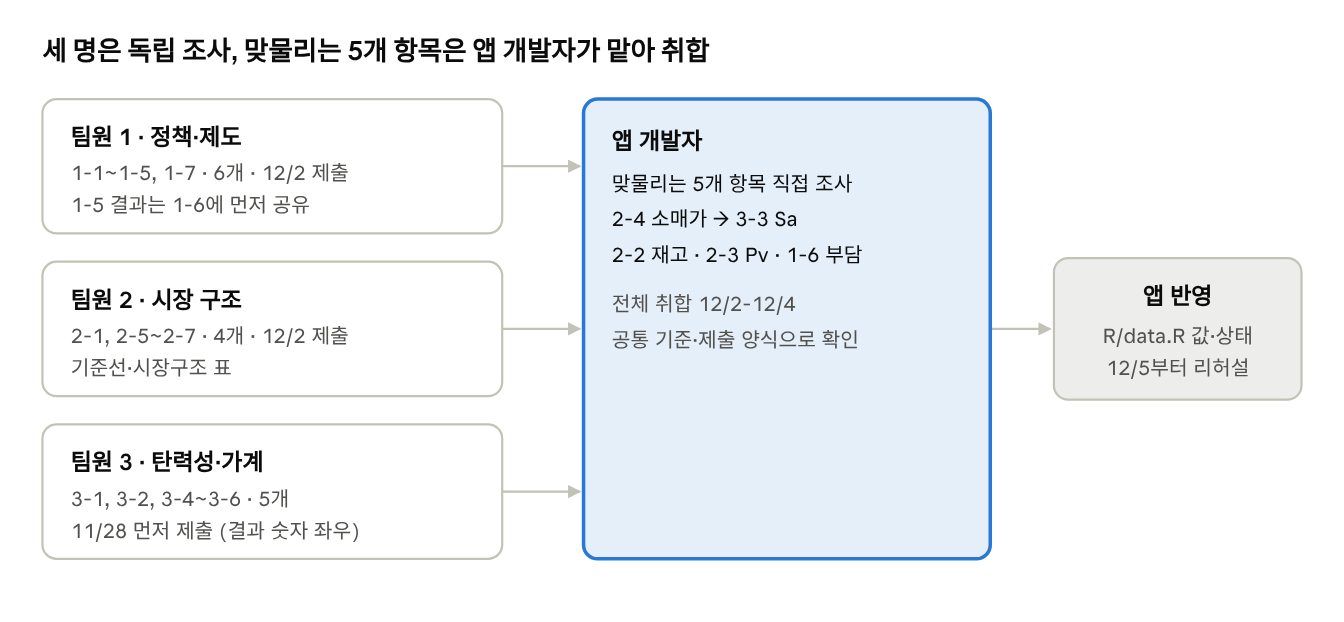
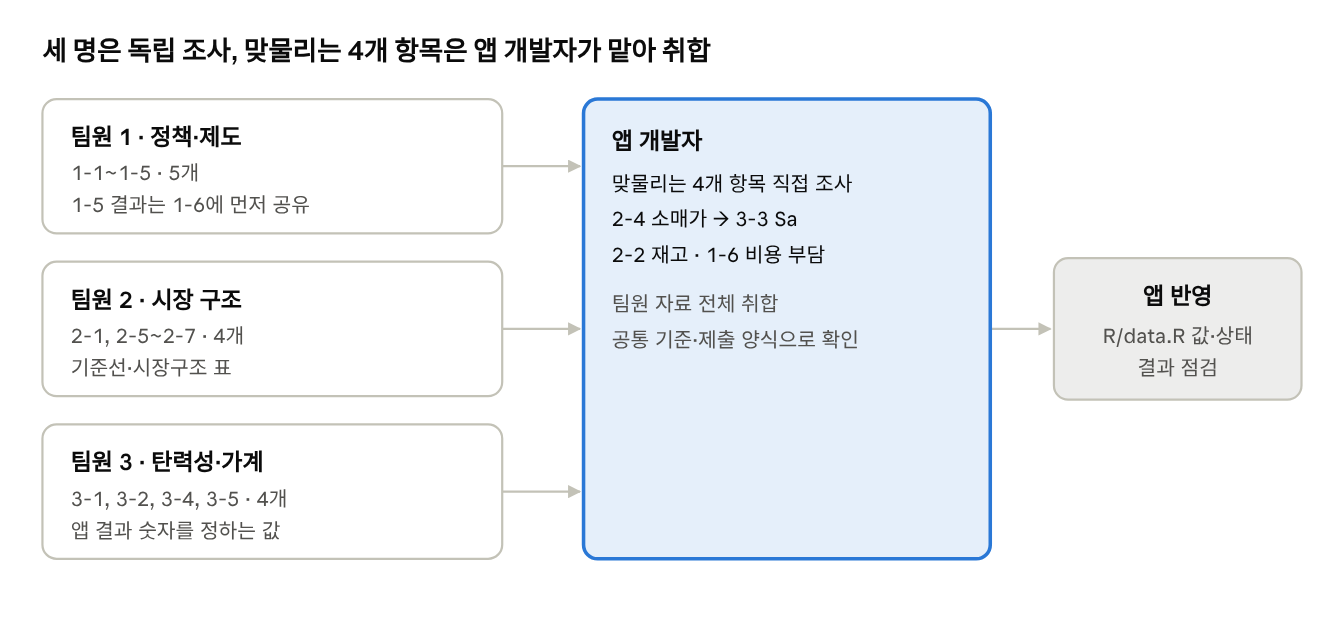
자료조사 문서: 과제 필수 자료만 남기고 일정 제거
- 과제 요구가 아닌 항목 제외: 1-7 우유 생산비, 2-3 처분가치, 3-6 월 소비지출
- 각 항목에 과제 근거 열 추가, 2-5에 판매자 쪽 구조 포함, 3-4는 조건부 표시
- 일정·마감일, 바로잡은 내용, 앱 반영 계획 섹션 제거
- 역할 분담 흐름도 갱신

Claude-Session: https://claude.ai/code/session_015N3KKKpZEbBGRrrhsN2csv

diff --git a/docs/자료조사-기준과-역할분담.md b/docs/자료조사-기준과-역할분담.md
@@ -1,24 +1,15 @@
 # 원유가격 시뮬레이터 자료조사 기준과 역할 분담
 
-작성일 2026-11-23 · 원본(편집·댓글용): [Claude 문서](https://claude.ai/artifact/Bh9cvCCWQGwG6CfZzqTc1w)
+원본(편집·댓글용): [Claude 문서](https://claude.ai/artifact/Bh9cvCCWQGwG6CfZzqTc1w)
 
-> 이 파일은 2026-11-23 시점의 사본입니다. 원본 문서를 고치면 이 파일은 자동으로 바뀌지 않습니다.
+> 이 파일은 원본 문서의 사본입니다. 원본 문서를 고치면 이 파일은 자동으로 바뀌지 않습니다.
 
 ## 개요
 
-앱의 계산 모형과 화면은 완성됐고, 남은 일은 임시 값으로 채워 둔 자료 20개 항목을 실제 출처로 바꾸는 것입니다. 팀원 3명이 서로 독립적인 15개 항목을 나눠 조사하고, 서로 값을 주고받아야 하는 5개 항목은 앱 개발자가 이 문서의 기준대로 직접 조사한 뒤 전체를 취합해 앱에 반영합니다.
+앱의 계산 모형과 화면은 완성됐고, 남은 일은 과제가 요구하는 자료 17개 항목을 실제 출처로 채우는 것입니다. 팀원 3명이 서로 독립적인 13개 항목을 나눠 조사하고, 서로 값을 주고받아야 하는 4개 항목은 앱 개발자가 직접 조사한 뒤 전체를 취합해 앱에 반영합니다. 모든 항목은 과제 안내문 3장(앱에 반드시 포함할 구성 요소)이 요구하는 것만 남겼고, 표의 "과제 근거" 열에 해당 문장을 적었습니다.
 
 - 앱: [원유가격 정책 시뮬레이터](https://sappheiros009.github.io/raw-milk-price-simulator/)
 - 각자 맡은 항목은 담당별 표에, 지켜야 할 기준과 제출 양식은 "공통 기준"에 있습니다.
-
-**일정**
-
-1. 팀원 3 탄력성·가계 항목 제출: 2026-11-28 (앱의 결과 숫자가 이 값으로 바뀌므로 먼저)
-2. 나머지 항목 제출: 2026-12-02
-3. 앱 개발자 취합·앱 반영: 12/2-12/4
-4. 리허설과 시연 녹화: 12/5-12/7
-5. 발표: 2026-12-08, 2026-12-10
-6. 정책 브리프 제출: 2026-12-18
 
 ## 역할 분담 한눈에
 
@@ -46,41 +37,39 @@
 | --- | --- | --- | --- | --- | --- | --- | --- | --- |
 | 예: 3-5 | (값) | % | 2013 | 소매 | 통계청 가계동향조사 | (주소) | (날짜) | 소득 1분위 우유 지출 비중 |
 
-## 팀원 1: 정책·제도 (6개, 12/2 제출)
+## 팀원 1: 정책·제도 (5개)
 
 정책·시장 탭의 정책 개요와 추이 그래프에 들어갑니다. 1-5의 쿼터 초과 원유 가격은 앱 개발자의 1-6 판단에도 쓰이므로 찾는 대로 먼저 공유합니다.
 
-| 번호 | 조사 항목 | 앱 위치 | 찾을 곳 |
-| --- | --- | --- | --- |
-| 1-1 | 연동제 산출 공식 원문(기준원가·변동원가 정의, 매년 적용 시점) | 정책 개요 "작동 방식" | 농림축산식품부 보도자료, 낙농진흥회 |
-| 1-2 | 도입 배경과 결정 시점(2011년 협상 갈등 → 제도 결정 연도 → 2013년 8월 첫 적용) | 정책 개요 "목표" | 농림축산식품부, 당시 언론 보도 |
-| 1-3 | 연도별 원유 기본가격과 인상폭(2013-2025, 동결·인하 포함) | 정책 개요 "규모와 변화" | 낙농진흥회, 언론 보도 교차 확인 |
-| 1-4 | 2023년 용도별 차등가격제(음용유·가공유 가격, 시장 상황 반영 방식) | 추이 그래프의 "(확인 필요)" 표시 | 농림축산식품부 보도자료 |
-| 1-5 | 쿼터제: 도입 연도, 2013년 쿼터 총량, 쿼터 초과 원유 정산 가격 | 정책 개요 "한계", 모형 한계 | 낙농진흥회 |
-| 1-7 | 우유 생산비(2012-2013년, 원/L) | 출처 표 "우유 생산비" | KOSIS 축산물생산비조사 |
+| 번호 | 조사 항목 | 과제 근거 | 앱 위치 | 찾을 곳 |
+| --- | --- | --- | --- | --- |
+| 1-1 | 연동제 산출 공식 원문(기준원가·변동원가 정의, 매년 적용 시점) | "정책의 실제 작동 방식" | 정책 개요 "작동 방식" | 농림축산식품부 보도자료, 낙농진흥회 |
+| 1-2 | 도입 배경과 결정 시점(2011년 협상 갈등 → 제도 결정 연도 → 2013년 8월 첫 적용) | "정책의 목적" | 정책 개요 "목표" | 농림축산식품부, 당시 언론 보도 |
+| 1-3 | 연도별 원유 기본가격과 인상폭(2013-2025, 동결·인하 포함) | "실제 규모(가격 수준)", "어떻게 변해 왔는지" | 정책 개요 "규모와 변화" | 낙농진흥회, 언론 보도 교차 확인 |
+| 1-4 | 2023년 용도별 차등가격제(음용유·가공유 가격, 시장 상황 반영 방식) | "정책이 어떻게 변해 왔는지" | 추이 그래프의 "(확인 필요)" 표시 | 농림축산식품부 보도자료 |
+| 1-5 | 쿼터제: 도입 연도, 2013년 쿼터 총량, 쿼터 초과 원유 정산 가격 | "정책의 실제 작동 방식", "누가 비용을 부담하는지" | 정책 개요 "한계", 모형 한계 | 낙농진흥회 |
 
-## 팀원 2: 시장 구조 (4개, 12/2 제출)
+## 팀원 2: 시장 구조 (4개)
 
-정책·시장 탭의 기준선 표와 시장구조 표에 들어갑니다. 2-5의 시장집중도는 "경쟁 가정이 타당한가"에 답하는 근거라 강의 L12(시장지배력)와 연결됩니다.
+정책·시장 탭의 기준선 표와 시장구조 표에 들어갑니다. 2-5는 "경쟁을 가정하는 것이 합리적인지"에 답하는 근거라 강의 L12(시장지배력)와 연결됩니다. CR4·HHI는 과제가 "공개된 것이 있다면"이라고 했으므로 못 찾으면 없다고 적고, 구매자·판매자 구조 설명은 어떤 경우에도 채웁니다.
 
-| 번호 | 조사 항목 | 앱 위치 | 찾을 곳 |
-| --- | --- | --- | --- |
-| 2-1 | 2013년 유업체 원유 구매량(음용유용·가공유용, 천 톤) | 기준선 표 | 낙농진흥회 낙농통계광장 |
-| 2-5 | 유업체 시장집중도 CR4 또는 HHI(서울우유·남양·매일 등 점유율, 연도 명시) | 시장구조 표 "구매자 집중도", "경쟁 가정의 타당성" | 공정거래위원회, KREI 보고서, 업계 점유율 보도 |
-| 2-6 | 유제품 수입량(치즈·분유, 2012-2015년)과 FTA 관세 철폐 일정 | 시장구조 표 "원유 무역", "국경 조치" | 관세청 수출입무역통계, FTA 포털 |
-| 2-7 | 원유 저장 가능 기간, 원유 자체의 교역 여부 | 시장구조 표 "저장성" | 낙농진흥회, KREI |
+| 번호 | 조사 항목 | 과제 근거 | 앱 위치 | 찾을 곳 |
+| --- | --- | --- | --- | --- |
+| 2-1 | 2013년 유업체 원유 구매량(음용유용·가공유용, 천 톤) | "생산량·소비량·수입량·재고량"의 소비량 | 기준선 표 | 낙농진흥회 낙농통계광장 |
+| 2-5 | 시장집중도: 구매자(유업체) CR4 또는 HHI(서울우유·남양·매일 등 점유율, 연도 명시) + 판매자 구조(낙농가 수, 낙농진흥회·협동조합 등 집유 주체별 비중) | "구매자와 판매자(협동조합, 가공업체, 소매업체)의 시장집중도", "경쟁을 가정하는 것이 합리적인지" | 시장구조 표 "구매자 집중도", "경쟁 가정의 타당성" | 공정거래위원회, KREI 보고서, 낙농진흥회, 업계 점유율 보도 |
+| 2-6 | 유제품 수입량(치즈·분유, 2012-2015년)과 FTA 관세 철폐 일정 | "수입량", "무역에 개방된 시장인지, 국경 조치가 실질적인 제약으로 작용하는지" | 시장구조 표 "원유 무역", "국경 조치" | 관세청 수출입무역통계, FTA 포털 |
+| 2-7 | 원유 저장 가능 기간, 원유 자체의 교역 여부 | "부패하기 쉬운 정도와 저장 여건" | 시장구조 표 "저장성" | 낙농진흥회, KREI |
 
-## 팀원 3: 탄력성·가계 (5개, 11/28 제출)
+## 팀원 3: 탄력성·가계 (4개)
 
-시뮬레이터와 후생 결과의 숫자가 모두 이 값으로 바뀌므로 가장 먼저 제출합니다. 괄호 안은 지금 앱에 들어 있는 임시 값입니다.
+시뮬레이터와 후생 결과의 숫자가 모두 이 값으로 정해집니다. 괄호 안은 지금 앱에 들어 있는 임시 값입니다.
 
-| 번호 | 조사 항목 | 앱 위치 (임시 값) | 찾을 곳 |
-| --- | --- | --- | --- |
-| 3-1 | 원유 공급탄력성 ε, 단기·장기 | 탄력성 표 (0.2 / 0.8) | KREI 보고서, 국내 축산경제 논문 |
-| 3-2 | 흰 우유 소매 수요탄력성 η | 탄력성 표 (−0.3 / −0.5) | KREI, 국내 우유 수요 추정 논문 |
-| 3-4 | 원유와 다른 투입재 간 대체탄력성 σ | 탄력성 표 (0.3) | 문헌. 없으면 범위만 제시 |
-| 3-5 | 2013년 소득 1분위·5분위의 우유 지출 비중 | 가계 파급 효과 (1.0% / 0.4%) | 통계청 가계동향조사 (KOSIS) |
-| 3-6 | 2013년 소득 1분위·5분위 월평균 소비지출 | 가계 파급 효과 (120만 / 500만 원) | 통계청 가계동향조사 (KOSIS) |
+| 번호 | 조사 항목 | 과제 근거 | 앱 위치 (임시 값) | 찾을 곳 |
+| --- | --- | --- | --- | --- |
+| 3-1 | 원유 공급탄력성 ε, 단기·장기 | "공개된 문헌이나 자료에서 탄력성 추정치를 가져오고", "단기·장기 기본값" | 탄력성 표 (0.2 / 0.8) | KREI 보고서, 국내 축산경제 논문 |
+| 3-2 | 흰 우유 소매 수요탄력성 η | 위와 같음, 탄력성 표(값·범위·출처·시장 단계·단기/장기) | 탄력성 표 (−0.3 / −0.5) | KREI, 국내 우유 수요 추정 논문 |
+| 3-4 | 원유와 다른 투입재 간 대체탄력성 σ (조건부) | 파생수요 탄력성 ηa = Saη − Sbσ. 3-2를 소매 단계 값으로 쓸 때만 필요하고, 원유 단계 수요탄력성을 바로 찾으면 불필요 | 탄력성 표 (0.3) | 문헌. 없으면 범위만 제시 |
+| 3-5 | 2013년 소득 1분위·5분위의 우유 지출 비중 | "두 개 이상의 소득 집단 … (≈ 예산 비중 × 가격 변화율)" | 가계 파급 효과 (1.0% / 0.4%) | 통계청 가계동향조사 (KOSIS) |
 
 **탄력성 기록 기준**
 
@@ -90,11 +79,13 @@
 - 단기·장기는 공급탄력성 ε로 구분합니다. 문헌이 η를 나누지 않으면 η는 한 값만 적습니다(앱에서 단기·장기에 같은 값 사용).
 - 국내 문헌이 없으면 L8 실습 방법으로 한국 우유 소비량·가격 자료를 넣어 직접 추정해도 됩니다.
 
-## 앱 개발자: 맞물리는 5개 항목과 기준
+## 앱 개발자: 맞물리는 4개 항목과 기준
 
-아래 5개는 서로 값을 주고받거나 같은 자료에서 나오므로 앱 개발자가 직접 조사합니다. 순서는 2-4 소매가를 먼저 정하고 3-3 Sa를 계산한 뒤, 2-2·2-3·1-6을 함께 봅니다.
+아래 4개는 서로 값을 주고받거나 같은 자료에서 나오므로 앱 개발자가 직접 조사합니다. 2-4 소매가를 먼저 정하고 3-3 Sa를 계산한 뒤, 2-2와 1-6을 함께 봅니다. 잉여 원유 처분가치는 과제 요구가 아니므로 조사하지 않고, 앱은 강의 모형대로 0(회수 가치 없음)을 가정으로 둡니다.
 
 ### 2-4 흰 우유 소매가격
+
+과제 근거: 조건부. 3-3 Sa를 "원유가 ÷ 소매가"로 계산할 때 필요합니다. 문헌에서 Sa 값을 찾으면 필요 없습니다.
 
 - 기준: 흰 우유 1L(900ml 제품은 1L로 환산), 대형마트 판매가, 2013년 1-7월 평균. 모형의 P*와 같은 기간이어야 하기 때문입니다. 도입 후 가격은 비교용으로만 기록합니다.
 - 출처 순서: KAMIS에 우유 1L 품목이 있으면 KAMIS, 없으면 한국소비자원 참가격, 둘 다 없으면 업체 발표가를 두 곳 이상 교차 확인. 소비자물가지수는 지수라 쓸 수 없습니다.
@@ -104,6 +95,8 @@
 
 ### 3-3 소매가 중 원유 몫 Sa
 
+과제 근거: "농가 몫", 파생수요 탄력성 ηa = Saη − Sbσ, "소매가격 변화(≈ Sa × 농가가격 변화)를 제시".
+
 - 기준: Sa = 원유수취가격 P*(980.29원/L) ÷ 2-4 소매가. 앱의 다른 계산이 수취가격 기준이라 기본가격(834원)은 쓰지 않습니다.
 - 가정: 원유 1L로 흰 우유 약 1L를 만든다고 봅니다.
 - 같은 시기의 KREI 등 문헌값이 있으면 검산용으로 함께 적습니다.
@@ -111,57 +104,20 @@
 
 ### 2-2 잉여 원유 재고
 
+과제 근거: "생산량·소비량·수입량·재고량"의 재고량, "실제 시장에서 일어난 일에 비추어 근거를 댈 수 있는 수치".
+
 - 기준: 낙농진흥회의 우유 재고량(원유 환산, 톤), 연말 기준 2012-2015년.
 - 모형과 비교할 때는 재고 수준이 아니라 연말 재고의 전년 대비 증가분(1년 동안 남은 양)을 씁니다. 모형의 잉여도 1년 양입니다.
 - 참고: 보도상 2013년 약 9.3만 톤, 2014년 약 23.2만 톤(주간경향, 낙농진흥회 집계 인용). 원자료로 확인 필요.
 - 한계: 2013년 말 재고가 이미 있었다는 점은 "도입 전에는 남는 원유가 없다"는 모형 가정과 충돌합니다. 재고 증가에는 FTA 수입, 날씨, 소비 감소도 섞여 있습니다.
 
-### 2-3 잉여 원유 처분가치 Pv
-
-- 기준: 순회수가치 = (분유·버터 판매 수입 − 가공비 − 보관비) ÷ 들어간 원유 L.
-- 앱 기본값은 0(강의 모형의 "회수 가치 없음")을 유지하고, 구한 값은 비교 시나리오로 씁니다.
-- 비용이 수입보다 크면 음수일 수 있고, 그때 사중손실은 Pv = 0일 때보다 커집니다.
-- 맞물리는 곳: 1-6과 같은 자료(2014-2015년 재고 처리 보도·예산)에서 나옵니다.
-
 ### 1-6 잉여 처리 비용 부담 주체
+
+과제 근거: 평가 항목 1 "비용 부담 주체", 3부 "비용을 부담하는 주체를 명확히".
 
 - 확인할 것: 정부의 재고 처리 예산 지원 여부와 금액, 쿼터 초과 원유 정산 방식(팀원 1의 1-5), 협동조합(서울우유)이라 유업체 부담이 조합원 농가에게 돌아가는 구조.
 - 앱 기본값은 "정부 매입"(강의 L11 공식과 바로 비교 가능)을 유지하고, "유업체 매입"은 현실 시나리오로 보여줍니다. 조사 결과에 따라 브리프에 "유업체 부담 + 정부 일부 지원" 등으로 서술합니다.
 - 모형 한계: 앱은 농가가 생산한 원유 전부를 연동제 가격에 판다고 봅니다. 쿼터 초과분은 더 낮은 가격을 받으므로 모형이 공급 반응을 크게 잡을 수 있습니다.
-
-## 바로잡은 내용
-
-앞서 Claude가 대화에서 설명한 내용 중 틀린 4가지를 고쳤고, 근거가 약했던 기준 5가지를 바꿨습니다. 이 문서의 기준은 모두 고친 내용을 따릅니다.
-
-**틀린 주장**
-
-| 앞선 주장 | 고친 내용 |
-| --- | --- |
-| 부담 주체를 유업체로 바꾸면 첫 화면의 유업체 손실이 처리 비용만큼 커진다 | 첫 화면 "유업체가 잃는 몫"은 부담 주체와 상관없이 ΔCS만 보여줌. 바뀌는 것은 후생 결과 탭의 행 이름뿐(앱 개선 대상) |
-| 처분가치 Pv = 0이면 사중손실의 상한 | 가공·보관비가 판매 수입보다 크면 순회수가치가 음수가 되어 사중손실이 더 커짐. Pv = 0은 "회수 가치 없음" 가정일 뿐 |
-| 2013년 서울우유가 흰 우유를 220원 올렸다 | 220원 인상은 매일유업 사례로도 보도됨. 서울우유는 2,300원에서 2,550원 인상을 추진하다 잠정 유보했다는 보도가 있음. 미확정, 2-4에서 확인 |
-| 출처 "인포스탁데일리(inews24)" | 아이뉴스24. 또 숫자와 기사의 짝은 검색 요약 기준이라 원문 확인이 필요 |
-
-**근거가 약해 바꾼 기준**
-
-| 이전 기준 | 바꾼 기준 |
-| --- | --- |
-| 도입 후 소매가를 쓰면 안 되는 이유는 "인상 유보 보도" | 진짜 이유는 모형의 P*와 같은 기간(2013년 1-7월)이어야 하기 때문 |
-| 문헌이 η를 나누지 않으면 단기 값으로 둠 | 단기·장기는 공급탄력성 ε로만 구분. η는 두 기간에 같은 값 |
-| Pv = 수입 탈지분유 가격의 원유 환산값 | 순회수가치 = (분유·버터 판매 수입 − 가공·보관비) ÷ 원유 L |
-| 모형 잉여와 재고량을 비교 | 연말 재고의 전년 대비 증가분과 비교(둘 다 1년 양) |
-| 앱 기본 부담 주체를 유업체로 바꾸자 | 철회. 정부 매입 유지, 1-6 조사 후 서술 결정 |
-
-## 앱 반영 계획
-
-취합이 끝나면 앱 개발자가 12/2-12/4에 아래를 반영합니다.
-
-- [ ] 제출된 값을 R/data.R에 넣고 상태를 "확인 완료"로 변경
-- [ ] 단기·장기 프리셋에서 η를 같은 값으로 (단기·장기는 ε로만 구분)
-- [ ] 유업체 매입을 고르면 유업체 총부담(ΔCS + 처리 비용)이 화면에 보이게
-- [ ] Sa를 2-4 소매가 기준으로 다시 계산하고, 2013년 실제 전가율과 비교하는 문구 추가
-- [ ] 2-2 재고 증가분과 모형 잉여를 "실제와 비교"에 추가
-- [ ] 모형 한계(도입 전 재고 존재, 쿼터 초과 원유 가격)를 방법론 탭에 기재
 
 ## 참고 출처
 
